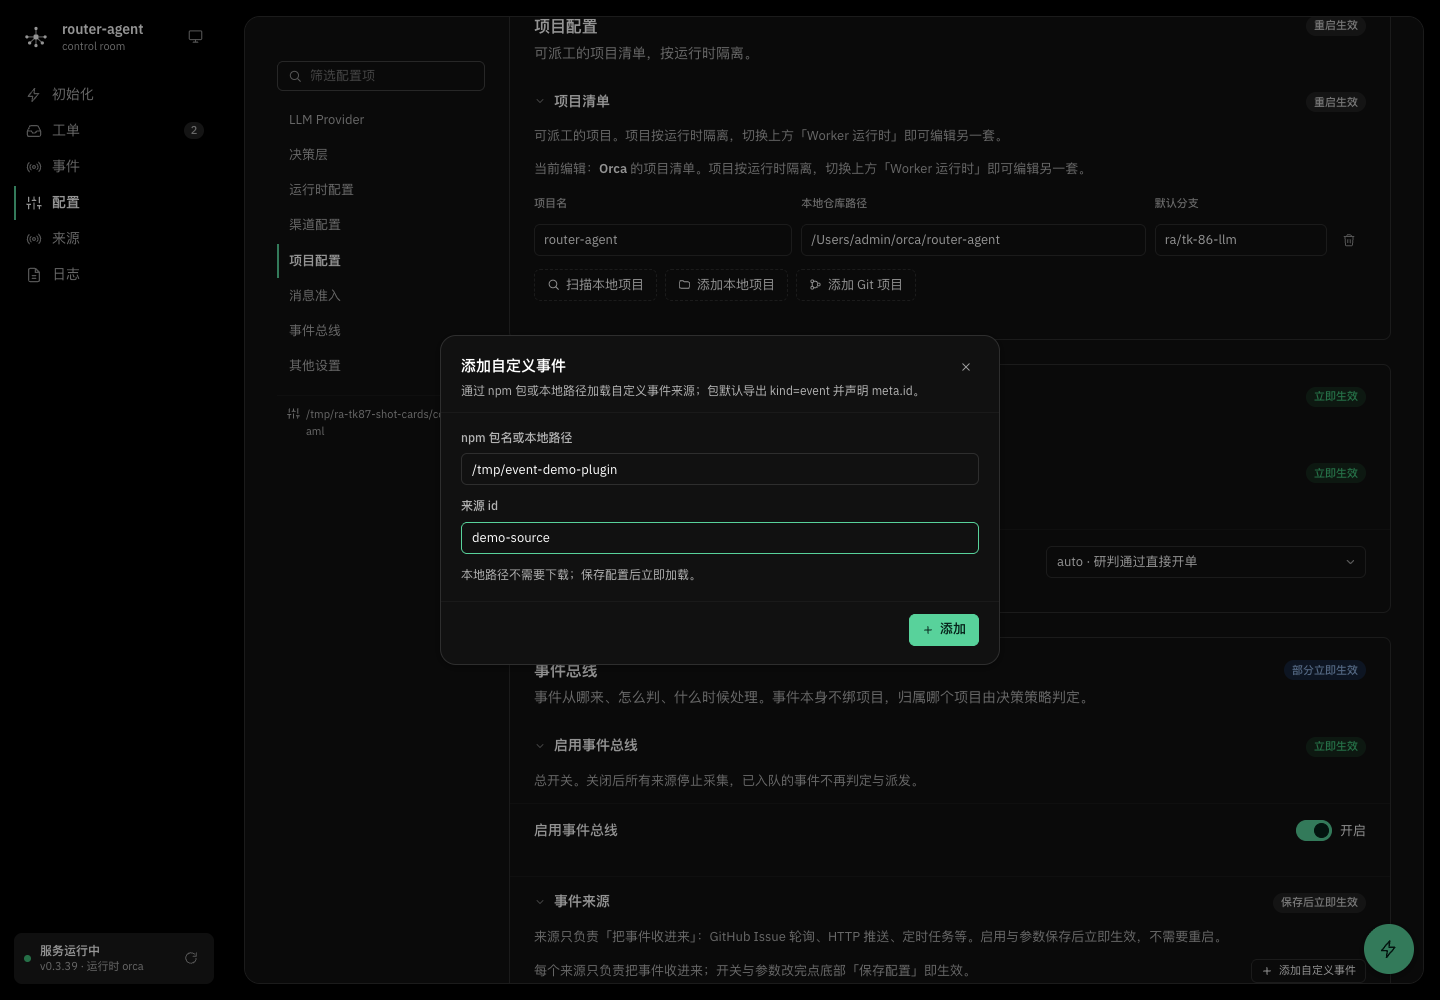
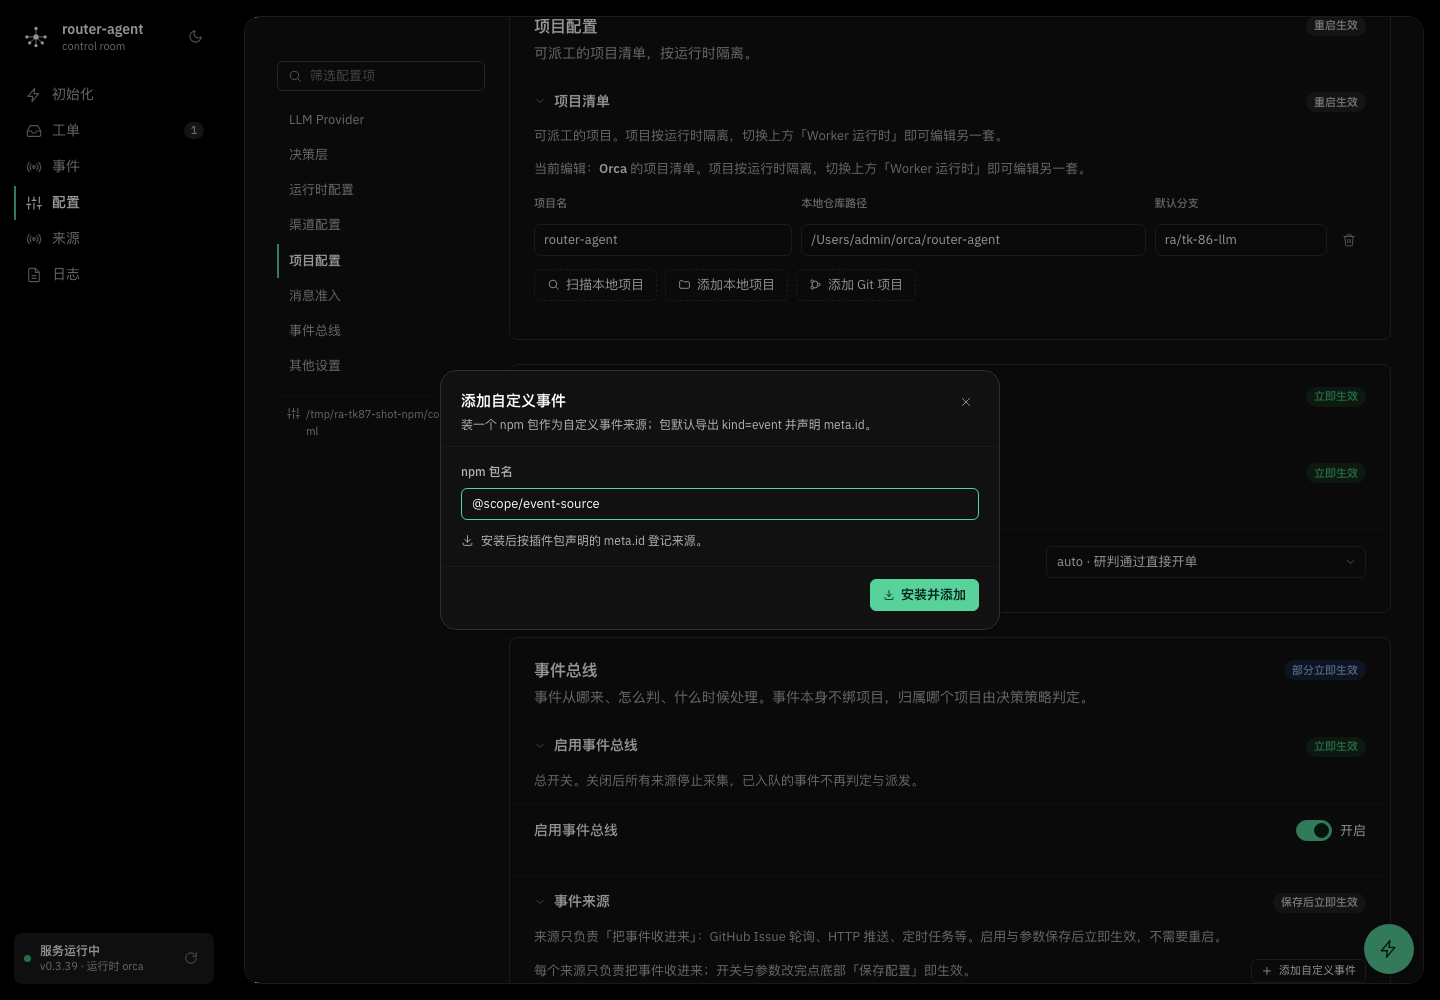
调整：「添加自定义事件」只填 npm 包名，去掉本地路径那条路
- 添加弹窗只留 npm 包名输入，填了本地路径会直接提示并把「安装并添加」置灰
- 去掉「来源 id」手工输入：来源 id 一律由插件包声明的 meta.id 决定
- 抽出共享的 npm 包名校验 src/web/client/npm-package.ts，事件与运行时两个弹窗共用一份
- 补测试 tests/web/npm-package.test.ts；文档同步改成「只支持 npm 包」

Changed region(s): [[0.3125, 0.341, 0.625, 0.589], [0.5938, 0.558, 0.6875, 0.651]]

diff --git a/src/web/client/events-config.tsx b/src/web/client/events-config.tsx
@@ -7,6 +7,7 @@
  */
 import { useMemo, useState } from 'react'
 import { getJson, sendJson, type ConfigDoc } from './api.js'
+import { npmPackageOf } from './npm-package.js'
 import { SourceLogo } from './event-source-logos.js'
 import { sourceFieldDefs, type SourceMeta } from './event-sources.js'
 import { getByPath, type FieldDef } from './fields.js'
@@ -42,15 +43,6 @@ interface PluginInstallJobView {
   error?: string
   startedAt: string
   finishedAt?: string
-}
-
-/** 与 packages/infra/plugin-install.ts 的 npmPackageNameOf 保持一致。 */
-const NPM_PACKAGE_PATTERN = /^(@[a-z0-9-~][a-z0-9-._~]*\/)?[a-z0-9-~][a-z0-9-._~]*$/i
-
-function npmPackageOf(value: string): string | undefined {
-  const text = value.trim()
-  if (!text || text.startsWith('.') || text.startsWith('/') || text.includes('\\') || /\s/.test(text)) return undefined
-  return NPM_PACKAGE_PATTERN.test(text) ? text : undefined
 }
 
 /** 事件来源编辑区。 */
@@ -258,18 +250,18 @@ function ModalField({ field, value, defaultValue, error, onChange }: {
   )
 }
 
-/** 添加自定义事件来源：装一个 npm 包，或指向一个本地插件目录。 */
+/** 添加自定义事件来源：装一个 npm 包。 */
 function AddEventSourceDialog({ onAdd, onNotice, onClose }: {
   onAdd: (id: string, entry: string) => void
   onNotice?: (notice: { kind: 'ok' | 'warn' | 'error'; text: string }) => void
   onClose: () => void
 }): JSX.Element {
   const [entry, setEntry] = useState('')
-  const [sourceId, setSourceId] = useState('')
   const [install, setInstall] = useState<{ busy: boolean; job?: PluginInstallJobView } | null>(null)
 
   const packageName = npmPackageOf(entry)
-  const isLocalPath = entry.trim().length > 0 && !packageName
+  /** 填了东西但不是合法 npm 包名：直接指出来，不让装到一半才失败。 */
+  const entryInvalid = entry.trim().length > 0 && !packageName
 
   const pollInstall = async (jobId: string): Promise<void> => {
     for (let attempt = 0; attempt < 300; attempt += 1) {
@@ -334,14 +326,6 @@ function AddEventSourceDialog({ onAdd, onNotice, onClose }: {
     }
   }
 
-  const addLocal = (): void => {
-    const id = sourceId.trim()
-    if (!id) return
-    onAdd(id, entry.trim())
-    onNotice?.({ kind: 'ok', text: `已添加自定义事件来源 ${id}（本地路径）；保存配置后立即生效` })
-    onClose()
-  }
-
   return (
     <div className="modal-layer">
       <button className="modal-backdrop" aria-label="关闭" onClick={onClose} />
@@ -349,28 +333,24 @@ function AddEventSourceDialog({ onAdd, onNotice, onClose }: {
         <header className="modal-head">
           <div>
             <h3>添加自定义事件</h3>
-            <p>通过 npm 包或本地路径加载自定义事件来源；包默认导出 kind=event 并声明 meta.id。</p>
+            <p>装一个 npm 包作为自定义事件来源；包默认导出 kind=event 并声明 meta.id。</p>
           </div>
           <button className="icon-btn" title="关闭" onClick={onClose}><Icon name="close" size={14} /></button>
         </header>
         <div className="modal-body">
           <label className="modal-field">
-            <span>npm 包名或本地路径</span>
-            <input className="input" value={entry} placeholder="例如 @scope/event-source 或 ./path/to/event-x" onChange={event => setEntry(event.target.value)} />
+            <span>npm 包名</span>
+            <input className="input" value={entry} placeholder="例如 @scope/event-source" onChange={event => setEntry(event.target.value)} />
           </label>
-          {isLocalPath && (
-            <label className="modal-field">
-              <span>来源 id</span>
-              <input className="input" value={sourceId} placeholder="本地路径没有 meta.id，请自己起一个" onChange={event => setSourceId(event.target.value)} />
-            </label>
-          )}
           {packageName && (
             <p className="modal-hint">
               <Icon name="download" size={13} />
               安装后按插件包声明的 meta.id 登记来源。
             </p>
           )}
-          {isLocalPath && <p className="modal-hint">本地路径不需要下载；保存配置后立即加载。</p>}
+          {entryInvalid && (
+            <p className="modal-hint">这里只认 npm 包名（例如 @scope/event-source）；本地路径请直接写进 config.yaml 的 events.sources。</p>
+          )}
           {install?.job && (
             <pre className="runtime-log">
               {(install.job.lines ?? []).slice(-8).join('\n') || (install.job.status === 'running' ? '正在启动 npm install…' : '')}
@@ -379,15 +359,9 @@ function AddEventSourceDialog({ onAdd, onNotice, onClose }: {
           )}
         </div>
         <footer className="modal-foot">
-          {packageName ? (
-            <button className="btn primary" onClick={() => void installPackage()} disabled={install?.busy}>
-              <Icon name="download" size={12} />{install?.busy ? '安装中…' : '安装并添加'}
-            </button>
-          ) : (
-            <button className="btn primary" onClick={addLocal} disabled={!isLocalPath || !sourceId.trim()}>
-              <Icon name="plus" size={12} />添加
-            </button>
-          )}
+          <button className="btn primary" onClick={() => void installPackage()} disabled={install?.busy || !packageName}>
+            <Icon name="download" size={12} />{install?.busy ? '安装中…' : '安装并添加'}
+          </button>
         </footer>
       </div>
     </div>

diff --git a/src/web/client/runtime-cards.tsx b/src/web/client/runtime-cards.tsx
@@ -7,6 +7,7 @@ import { useEffect, useMemo, useRef, useState, type Dispatch, type SetStateActio
 import { ACP_RUNTIME_ID, normalizeRuntimeId } from '#runtime/runtimes/catalog.js'
 import { getJson, sendJson } from './api.js'
 import { Icon } from './icons.js'
+import { npmPackageOf } from './npm-package.js'
 import {
   isAcpAgentRuntime,
   isBuiltinRuntime,
@@ -444,16 +445,6 @@ export function RuntimeCards({
       )}
     </div>
   )
-}
-
-/** 与 packages/infra/plugin-install.ts 的 npmPackageNameOf 保持一致；面板据此决定是否显示安装按钮。 */
-const NPM_PACKAGE_PATTERN = /^(@[a-z0-9-~][a-z0-9-._~]*\/)?[a-z0-9-~][a-z0-9-._~]*$/i
-
-function npmPackageOf(value: string): string | undefined {
-  const text = value.trim()
-  if (!text || text.startsWith('.') || text.startsWith('/') || text.startsWith('file:')) return undefined
-  if (text.includes('\\') || /\s/.test(text)) return undefined
-  return NPM_PACKAGE_PATTERN.test(text) ? text : undefined
 }
 
 interface PluginInstallJobView {

diff --git a/tests/web/npm-package.test.ts b/tests/web/npm-package.test.ts
@@ -1,0 +1,22 @@
+import { describe, expect, it } from 'vitest'
+import { npmPackageOf } from '../../src/web/client/npm-package.js'
+
+describe('面板 npm 包名校验', () => {
+  it('裸包名与 scope 包名都认，返回去掉空白的原名', () => {
+    expect(npmPackageOf('my-event-source')).toBe('my-event-source')
+    expect(npmPackageOf('@acme/event-source')).toBe('@acme/event-source')
+    expect(npmPackageOf('  @acme/event-source  ')).toBe('@acme/event-source')
+  })
+
+  it('本地路径与 file: 协议都不认，面板只放行 npm 包', () => {
+    expect(npmPackageOf('./local/event-x')).toBeUndefined()
+    expect(npmPackageOf('/tmp/event-x')).toBeUndefined()
+    expect(npmPackageOf('file:///tmp/event-x')).toBeUndefined()
+  })
+
+  it('空串与带空白的串都不是包名', () => {
+    expect(npmPackageOf('')).toBeUndefined()
+    expect(npmPackageOf('   ')).toBeUndefined()
+    expect(npmPackageOf('my event source')).toBeUndefined()
+  })
+})

diff --git a/src/web/client/npm-package.ts b/src/web/client/npm-package.ts
@@ -1,0 +1,16 @@
+/**
+ * npm 包名校验。
+ *
+ * 面板只接受 npm 包名：本地路径、file: 协议一律不认，
+ * 避免面板放行、服务端安装接口才拒绝。
+ * 与 packages/infra/plugin-install.ts 的 npmPackageNameOf 保持同一口径。
+ */
+const NPM_PACKAGE_PATTERN = /^(@[a-z0-9-~][a-z0-9-._~]*\/)?[a-z0-9-~][a-z0-9-._~]*$/i
+
+/** 是合法 npm 包名就返回它，否则返回 undefined。 */
+export function npmPackageOf(value: string): string | undefined {
+  const text = value.trim()
+  if (!text || text.startsWith('.') || text.startsWith('/') || text.startsWith('file:')) return undefined
+  if (text.includes('\\') || /\s/.test(text)) return undefined
+  return NPM_PACKAGE_PATTERN.test(text) ? text : undefined
+}

diff --git a/docs/assets/event-panel/README.md b/docs/assets/event-panel/README.md
@@ -33,13 +33,16 @@
 | `config-after-source.png` | 改造前：事件来源是折叠列表，每个来源一行，展开后字段平铺在页面里，来源一多就要长长地往下滚 |
 | `source-cards.png` | 改造后：来源改成卡片网格。每张卡带来源 LOGO、来源类型、运行状态、右上角启用开关，左下角「设置」按钮打开配置弹窗，右下角标注这一路有多少项可配置 |
 | `source-settings.png` | 设置弹窗：按来源自己声明的字段逐项渲染（仓库、轮询间隔、标签白名单、默认优先级……），字段名带一行说明，确认后由底部「保存配置」统一落盘 |
-| `source-add.png` | 「添加自定义事件」弹窗：可以填 npm 包名（走安装任务，与「添加运行时」同一套链路），也可以填本地路径；本地路径需要自己起一个来源 id |
+| `source-add-local-before.png` | 「添加自定义事件」弹窗（改之前）：既能填 npm 包名，也能填本地路径，还要自己起一个来源 id，两条路摆在一起让人挑 |
+| `source-add.png` | 「添加自定义事件」弹窗（改之后）：只填 npm 包名（走安装任务，与「添加运行时」同一套链路），装完按插件包声明的 `meta.id` 登记来源 |
+| `source-add-invalid.png` | 填了本地路径时的提示：直接说清「这里只认 npm 包名」，并把「安装并添加」置灰，不让装到一半才失败 |
 | `source-plugin-card.png` | 加完之后：自定义来源以卡片形式出现（LOGO + 包路径 + 运行状态「收到 1 条事件」），底部提示「已保存 2 项，已立即生效」 |
 | `source-plugin-settings.png` | 自定义来源的设置弹窗：字段由插件包自己声明，面板不需要额外配置就能渲染出来 |
 | `source-npm-install.png` | npm 安装失败时的报错：装完的包没有导出 `kind=event` 的默认对象，面板直接把原因说清楚，而不是只说「安装失败」 |
 
 界面改动说明：
 
+- 「添加自定义事件」只填 npm 包名：本地路径这条路去掉了，填了会直接提示并把「安装并添加」置灰，不让装到一半才失败
 - 每类来源有固定的线性 LOGO（GitHub / HTTP / 定时任务 / 飞书 / 自定义包），来源身份一眼可辨。
 - 开关直接在卡上，不用进设置弹窗也能启停；参数都在弹窗里，页面本身保持干净。
 - 新增来源走 npm 包安装（和「添加运行时」一致）：装完按插件包声明的 `meta.id` 登记来源，插件声明的可配置项自动进设置弹窗。

diff --git a/docs/CONFIGURATION.md b/docs/CONFIGURATION.md
@@ -382,7 +382,7 @@ curl -X POST http://127.0.0.1:3083/api/events/inject \
 
 ### 自定义事件来源（npm 插件）
 
-内置来源（github / http / schedule / feishu）不够用时，可以装一个事件来源插件 —— 和「添加运行时」是同一套机制：面板「配置 → 事件总线 → 添加自定义事件」填 npm 包名，走 `npm install` 装到 `<RA_HOME>/node_modules`；也可以填本地路径直接联调。
+内置来源（github / http / schedule / feishu）不够用时，可以装一个事件来源插件 —— 和「添加运行时」是同一套机制：面板「配置 → 事件总线 → 添加自定义事件」填 npm 包名，走 `npm install` 装到 `<RA_HOME>/node_modules`。
 
 插件包默认导出一个对象：
 
@@ -407,7 +407,7 @@ const plugin: EventPlugin = {
 export default plugin
 ```
 
-装好之后面板按插件声明的 `meta.id` 把它登记成一个来源，来源 id 就是 `meta.id`（本地路径没有 `meta.id` 时自己填一个来源 id）。落盘形状：
+装好之后面板按插件声明的 `meta.id` 把它登记成一个来源，来源 id 就是 `meta.id`。落盘形状：
 
 ```yaml
 events:
@@ -415,7 +415,7 @@ events:
     my-source:
       enabled: true
       kind: plugin
-      plugin: my-event-source              # npm 包名或本地路径
+      plugin: my-event-source              # npm 包名
       options:
         target: payments-api
         verbose: false

diff --git a/docs/MONOREPO.md b/docs/MONOREPO.md
@@ -148,7 +148,7 @@ export default plugin
 ## 新增一个事件来源插件
 
 1. 插件包实现 `EventPlugin`（`kind: 'event'`），依赖 `@router-agent/event` / `@router-agent/core` / `@router-agent/infra`；
-2. 面板「配置 → 事件总线 → 添加自定义事件」填 npm 包名即可安装（也可填本地路径联调），装完按插件声明的 `meta.id` 登记成来源；也可以手写 `events.sources.<id>.plugin: <包名或本地路径>`；
+2. 面板「配置 → 事件总线 → 添加自定义事件」填 npm 包名即可安装，装完按插件声明的 `meta.id` 登记成来源；也可以手写 `events.sources.<id>.plugin: <包名>`；
 3. 插件用 `options.fields` 声明自己的可配置项，面板设置弹窗按声明自动渲染，值落在 `events.sources.<id>.options.<key>`；
 4. 加载失败只记 `event:plugin-failed`，不影响其它来源。
 
